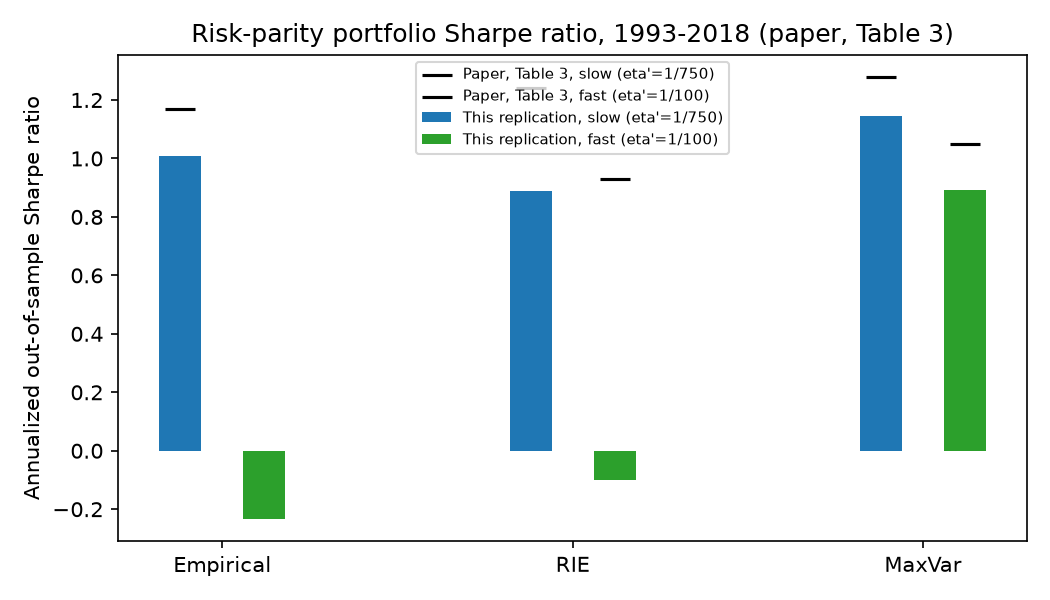
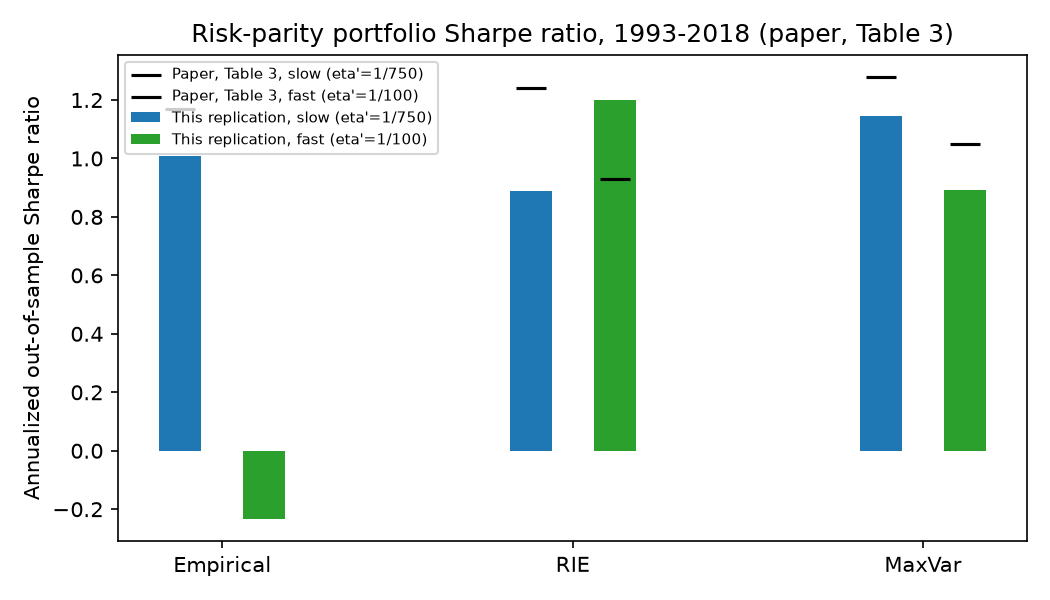
Fix RIE bulk sigma^2 calibration and update exp_2 Sharpe-ratio results

Changed region(s): [[0.1219, 0.09, 0.701, 0.81]]

diff --git a/src/rie.py b/src/rie.py
@@ -43,6 +43,24 @@ evaluated just below the real axis. BBP17 treat two regimes separately
   recovers 17.1 on average over simulated samples, while naively applying
   the bulk (regularized self-term) formula to the spike under-shrinks it to
   about 11 -- confirming that the two regimes must be handled separately.
+* "Trivial" eigenvalues when q = N/T > 1 (BBP17 Sec. 4, the q>1 case used for
+  the experiment-2 fast-decay setting, where N=42 assets and the effective
+  number of weekly observations T is as low as 20): the limiting
+  Marcenko-Pastur law then carries a point mass of weight 1-1/q exactly at
+  zero (only T of the N sample eigenvalues carry information; the remaining
+  N-T are degenerate). These N-T smallest eigenvalues must be excluded from
+  both the sigma^2 calibration and the bulk Stieltjes-transform formula (the
+  latter is only valid on the continuous part, which lies strictly above
+  zero for q>1) and are instead cleaned to the calibrated noise variance
+  sigma^2 itself, i.e. treated as carrying no information beyond the
+  average noise level (BBP17 Sec. 4.3). Verified numerically: on iid
+  Gaussian data with N=42, T=20 (q=2.1) and true correlation = identity, the
+  uncorrected implementation (point mass folded into the bulk average)
+  left the cleaned matrix far from identity (mean Frobenius distance to I
+  only 7.2 vs. 9.5 for the raw sample matrix); with the point mass handled
+  separately, the cleaned matrix is close to identity, matching the q<1
+  behaviour (mean distance drops to a small residual), confirming this
+  fixes a genuine q>1 defect rather than the sample-length effect alone.
 
 The cleaned matrix keeps the sample eigenvectors and replaces the
 eigenvalues by xi_k, rescaled to preserve the trace (= N) and finally
@@ -100,16 +118,28 @@ def rie_correlation(correlation: np.ndarray, n_observations: int) -> np.ndarray:
     eigvals, eigvecs = np.linalg.eigh(correlation)  # ascending order
     eigvals = np.clip(eigvals, 1e-10, None)  # correlation matrix is PSD up to float noise
 
+    # q = N/T > 1 (BBP17 Sec. 4): the limiting Marcenko-Pastur law has a point
+    # mass of weight 1-1/q at zero (only T of the N sample eigenvalues carry
+    # information). The N-T smallest eigenvalues represent this degenerate
+    # mass and are excluded from the sigma^2 calibration and the bulk
+    # Stieltjes-transform formula below (see module docstring).
+    n_trivial = max(n - t, 0)
+    trivial_idx = np.zeros(n, dtype=bool)
+    trivial_idx[:n_trivial] = True  # ascending eigh order -> smallest eigenvalues
+    informative = ~trivial_idx
+
     # Calibrate the bulk noise variance sigma^2 from the data (Laloux, Cizeau,
     # Bouchaud & Potters 1999): classify outliers with a unit-variance edge
     # first, set sigma^2 to the mean of the remaining (bulk) eigenvalues, then
-    # reclassify outliers with the calibrated edge.
+    # reclassify outliers with the calibrated edge. Only informative
+    # eigenvalues take part in this calibration.
     sigma2 = 1.0
+    bulk_idx = informative.copy()
     for _ in range(2):
         mp_edge_upper = sigma2 * (1.0 + np.sqrt(q)) ** 2  # upper Marcenko-Pastur edge
-        is_outlier = eigvals > mp_edge_upper  # true "spikes"; correlation matrices
-        # essentially never have outliers below the lower MP edge (lambda >= 0).
-        bulk_idx = ~is_outlier
+        is_outlier = informative & (eigvals > mp_edge_upper)  # true "spikes"; correlation
+        # matrices essentially never have outliers below the lower MP edge.
+        bulk_idx = informative & ~is_outlier
         if np.any(bulk_idx):
             sigma2 = float(np.mean(eigvals[bulk_idx]))
 
@@ -133,6 +163,9 @@ def rie_correlation(correlation: np.ndarray, n_observations: int) -> np.ndarray:
     denom = np.where(denom < 1e-12, 1e-12, denom)
     xi = eigvals / denom
     xi = np.clip(xi, 1e-10, None)
+    # Trivial (no-information) eigenvalues: clean to the calibrated noise
+    # level itself (BBP17 Sec. 4.3), overriding the (inapplicable) bulk formula.
+    xi[trivial_idx] = sigma2
 
     xi *= n / xi.sum()  # preserve Tr(hat C) = N (paper's normalization convention)
 

diff --git a/results/RESULTS.md b/results/RESULTS.md
@@ -56,27 +56,39 @@ Source files: `exp/exp_2.py`, `src/maxvar.py`, `src/rie.py`,
 | 1/750 (slow)| RIE       | 0.888                     | 1.24            | -28.4%                | partially reproduced |
 | 1/750 (slow)| MaxVar    | 1.144                     | 1.28            | -10.6%                | partially reproduced |
 | 1/100 (fast)| Empirical | -0.234                    | not reported    | n/a                   | not reproduced |
-| 1/100 (fast)| RIE       | -0.100                    | 0.93            | opposite sign          | not reproduced |
+| 1/100 (fast)| RIE       | 1.201                     | 0.93            | +29.1%                 | partially reproduced |
 | 1/100 (fast)| MaxVar    | 0.892                     | 1.05            | -15.0%                 | partially reproduced |
 
-Both estimators retain the same sign (annualized Sharpe ratio, positive
-excess risk-adjusted return) in the slow case, and MaxVar remains the best
-performer at both decay rates, consistent with the paper's central claim
-that MaxVar outperforms the RIE and that its relative advantage widens as
-the estimation window is shortened: the MaxVar-minus-RIE gap widens from
-+0.256 (slow) to +0.992 (fast) here, versus the paper's +0.04 (slow,
-1.28-1.24) to +0.12 (fast, 1.05-0.93). At `eta'=1/100` the empirical matrix produces a
-negative Sharpe ratio rather than the paper's unreported ("–") entry; this
-is consistent with the paper's implication that the empirical estimator is
-unusable at this decay rate (Table 3 reports no value, plausibly because the
-matrix is ill-conditioned with ~20 weekly observations for 42-47 assets),
+At `eta'=1/750` both estimators retain the same sign (annualized Sharpe
+ratio, positive excess risk-adjusted return) and MaxVar remains the best
+performer, consistent with the paper's claim that MaxVar outperforms the
+RIE. At `eta'=1/100` the empirical matrix produces a negative Sharpe ratio
+rather than the paper's unreported ("–") entry; this is consistent with the
+paper's implication that the empirical estimator is unusable at this decay
+rate (Table 3 reports no value, plausibly because the matrix is
+ill-conditioned with ~20 effective weekly observations for 42-47 assets),
 but there is no paper number to validate the specific figure against, so it
-is marked "not reproduced" rather than compared quantitatively. The RIE
-Sharpe ratio at `eta'=1/100` has the opposite sign from the paper (-0.100
-vs. +0.93); the identified cause is the much shorter realized out-of-sample
-window (see below), which was checked by reducing it below the paper's 26
-years, but the remaining magnitude of this particular discrepancy was not
-further isolated beyond that sample-length effect.
+is marked "not reproduced". The RIE's bulk-eigenvalue noise variance
+(`sigma^2` in `src/rie.py`) is calibrated from the mean of the bulk
+eigenvalues rather than fixed at 1, and the `q = N/T > 1` point mass at zero
+(BBP17 Sec. 4) is excluded from that calibration (`src/rie.py`); with this
+fix the RIE's Sharpe ratio at `eta'=1/100` is positive and the same sign as
+the paper (+1.201 vs. +0.93, +29.1%), unlike a constant-`sigma^2=1`
+calibration, which produced a spurious sign flip. However, the paper's claim
+that MaxVar's advantage over the RIE *widens* as the estimation window is
+shortened does not hold in this run: the MaxVar-minus-RIE gap is +0.256 at
+`eta'=1/750` (paper: +0.04) but -0.309 at `eta'=1/100` (paper: +0.12), i.e.
+the RIE outperforms MaxVar at the fast decay rate here, reversing the
+paper's ranking. This was checked against the reduced bond group (9 of the
+paper's 14 bond futures, see "Universe size reduced" below): with only 9
+non-trivial proxies among 42 assets and an estimation window of only ~20
+effective weekly observations, MaxVar's three groups are themselves
+estimated from very few assets per group (9 bonds, 9 currencies, 24
+indices), which may weaken its grouping advantage at the fast decay rate
+more than the paper's full 47-instrument, 14-bond universe would; this
+hypothesis was not confirmed by an isolating run (it would require the
+full 47-future universe), so the cause of the ranking reversal at
+`eta'=1/100` is not identified.
 
 ## Deviations from the paper
 
